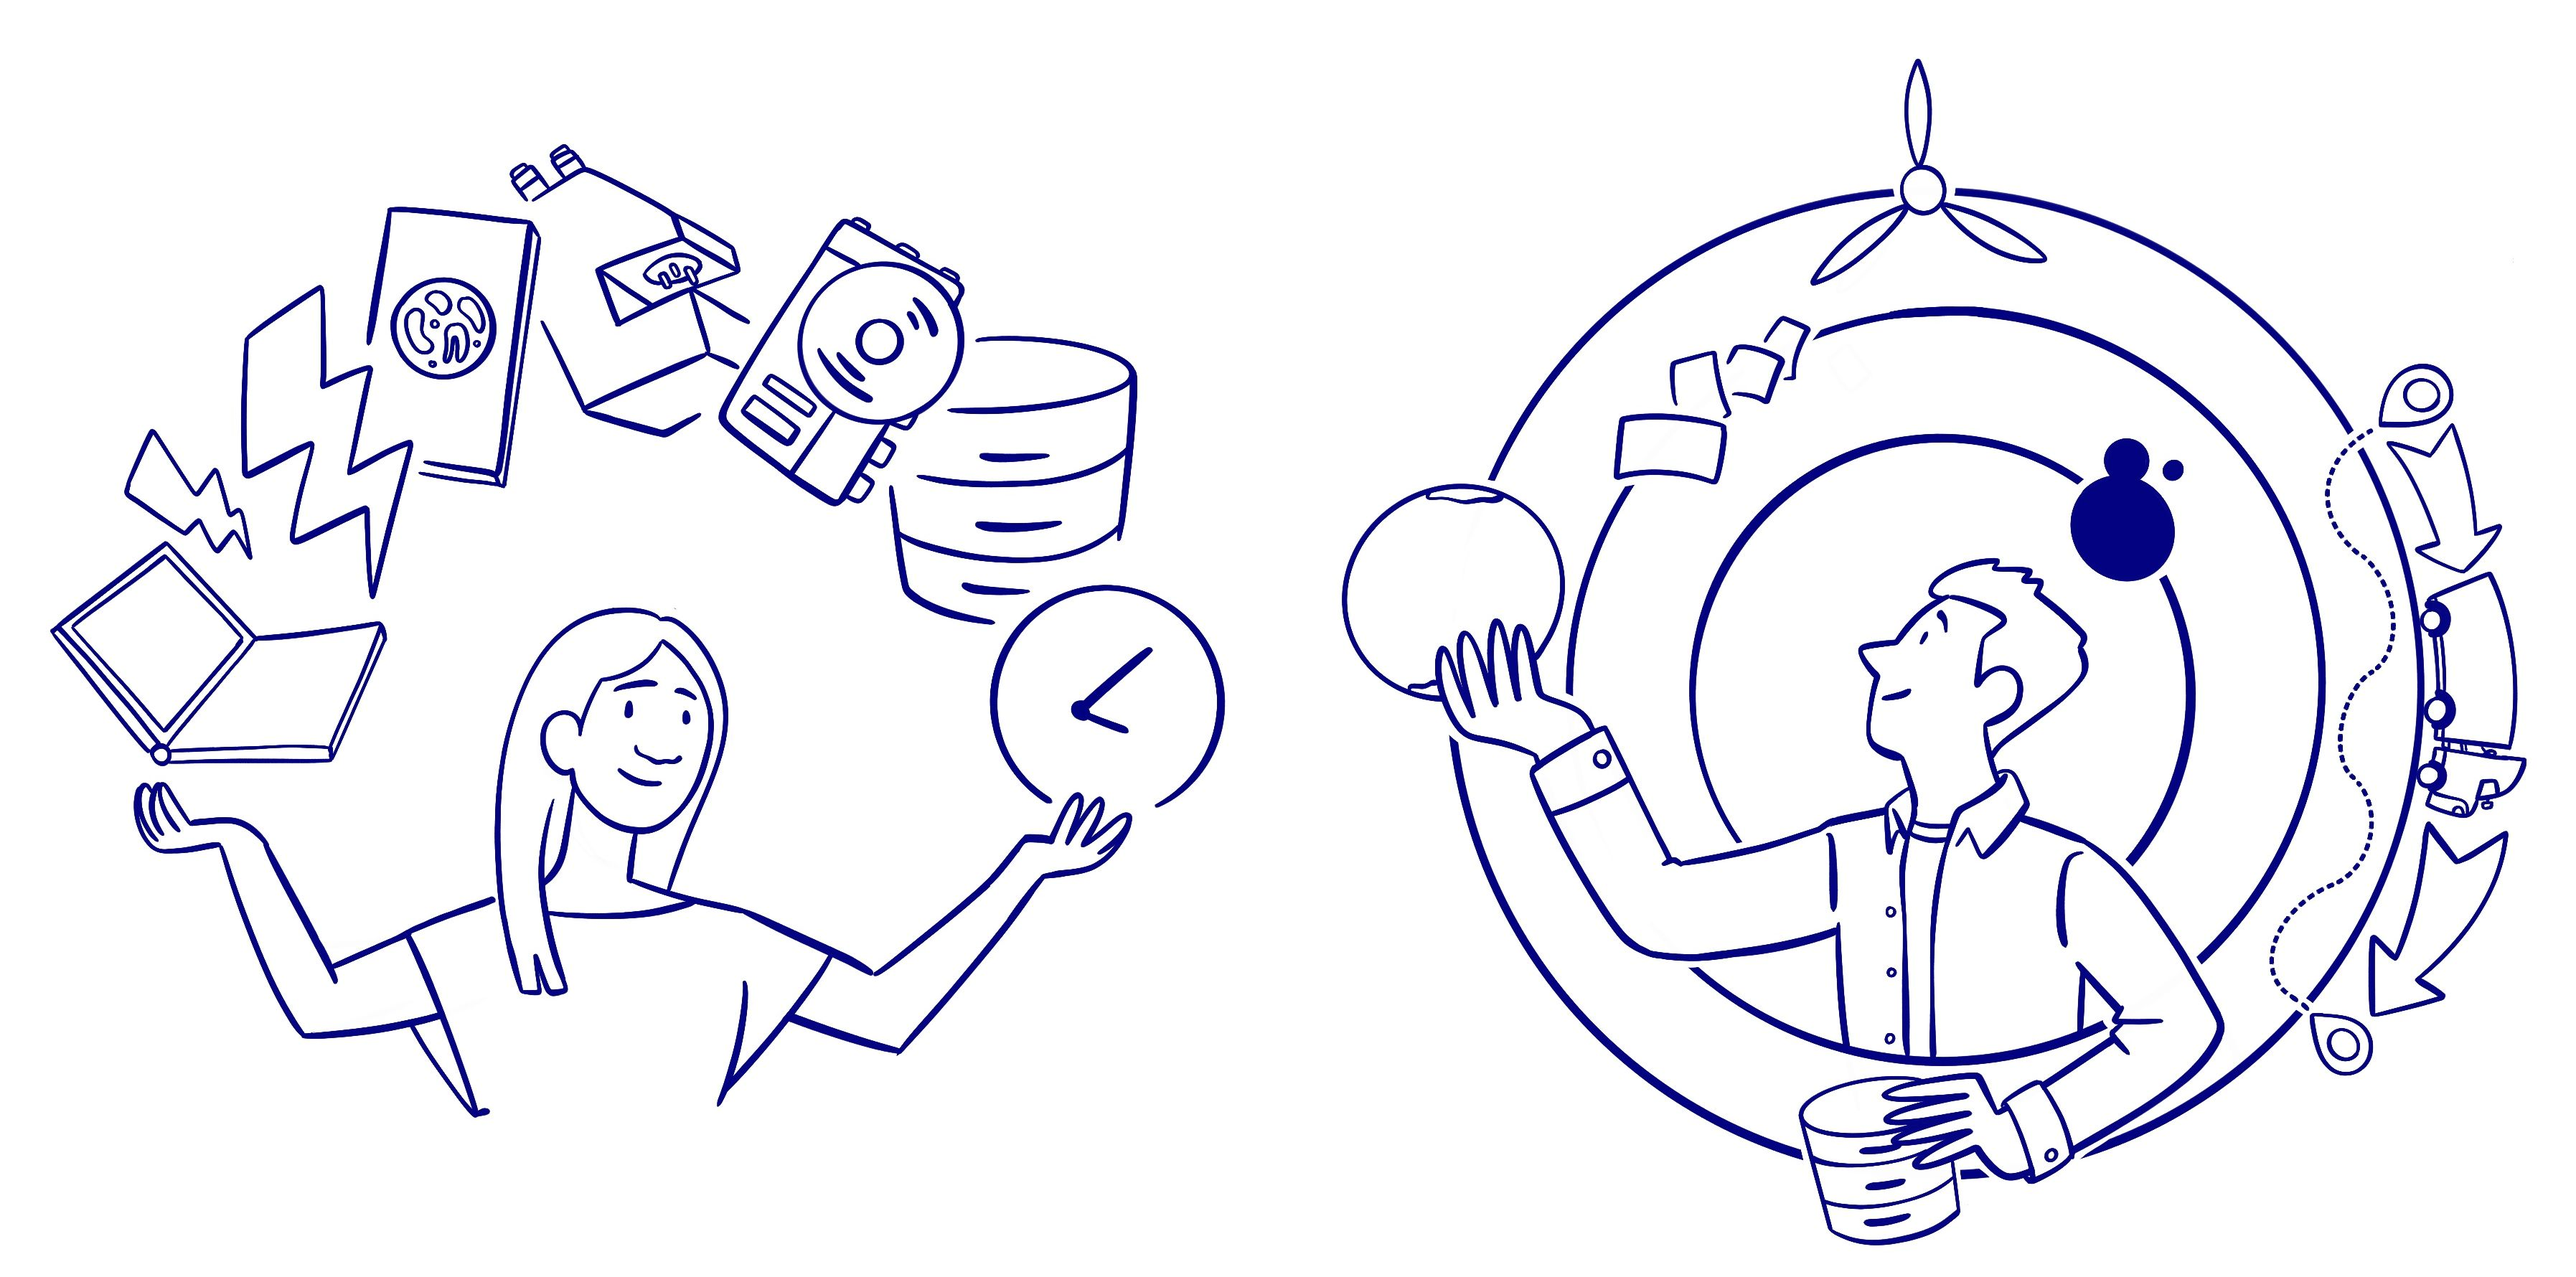
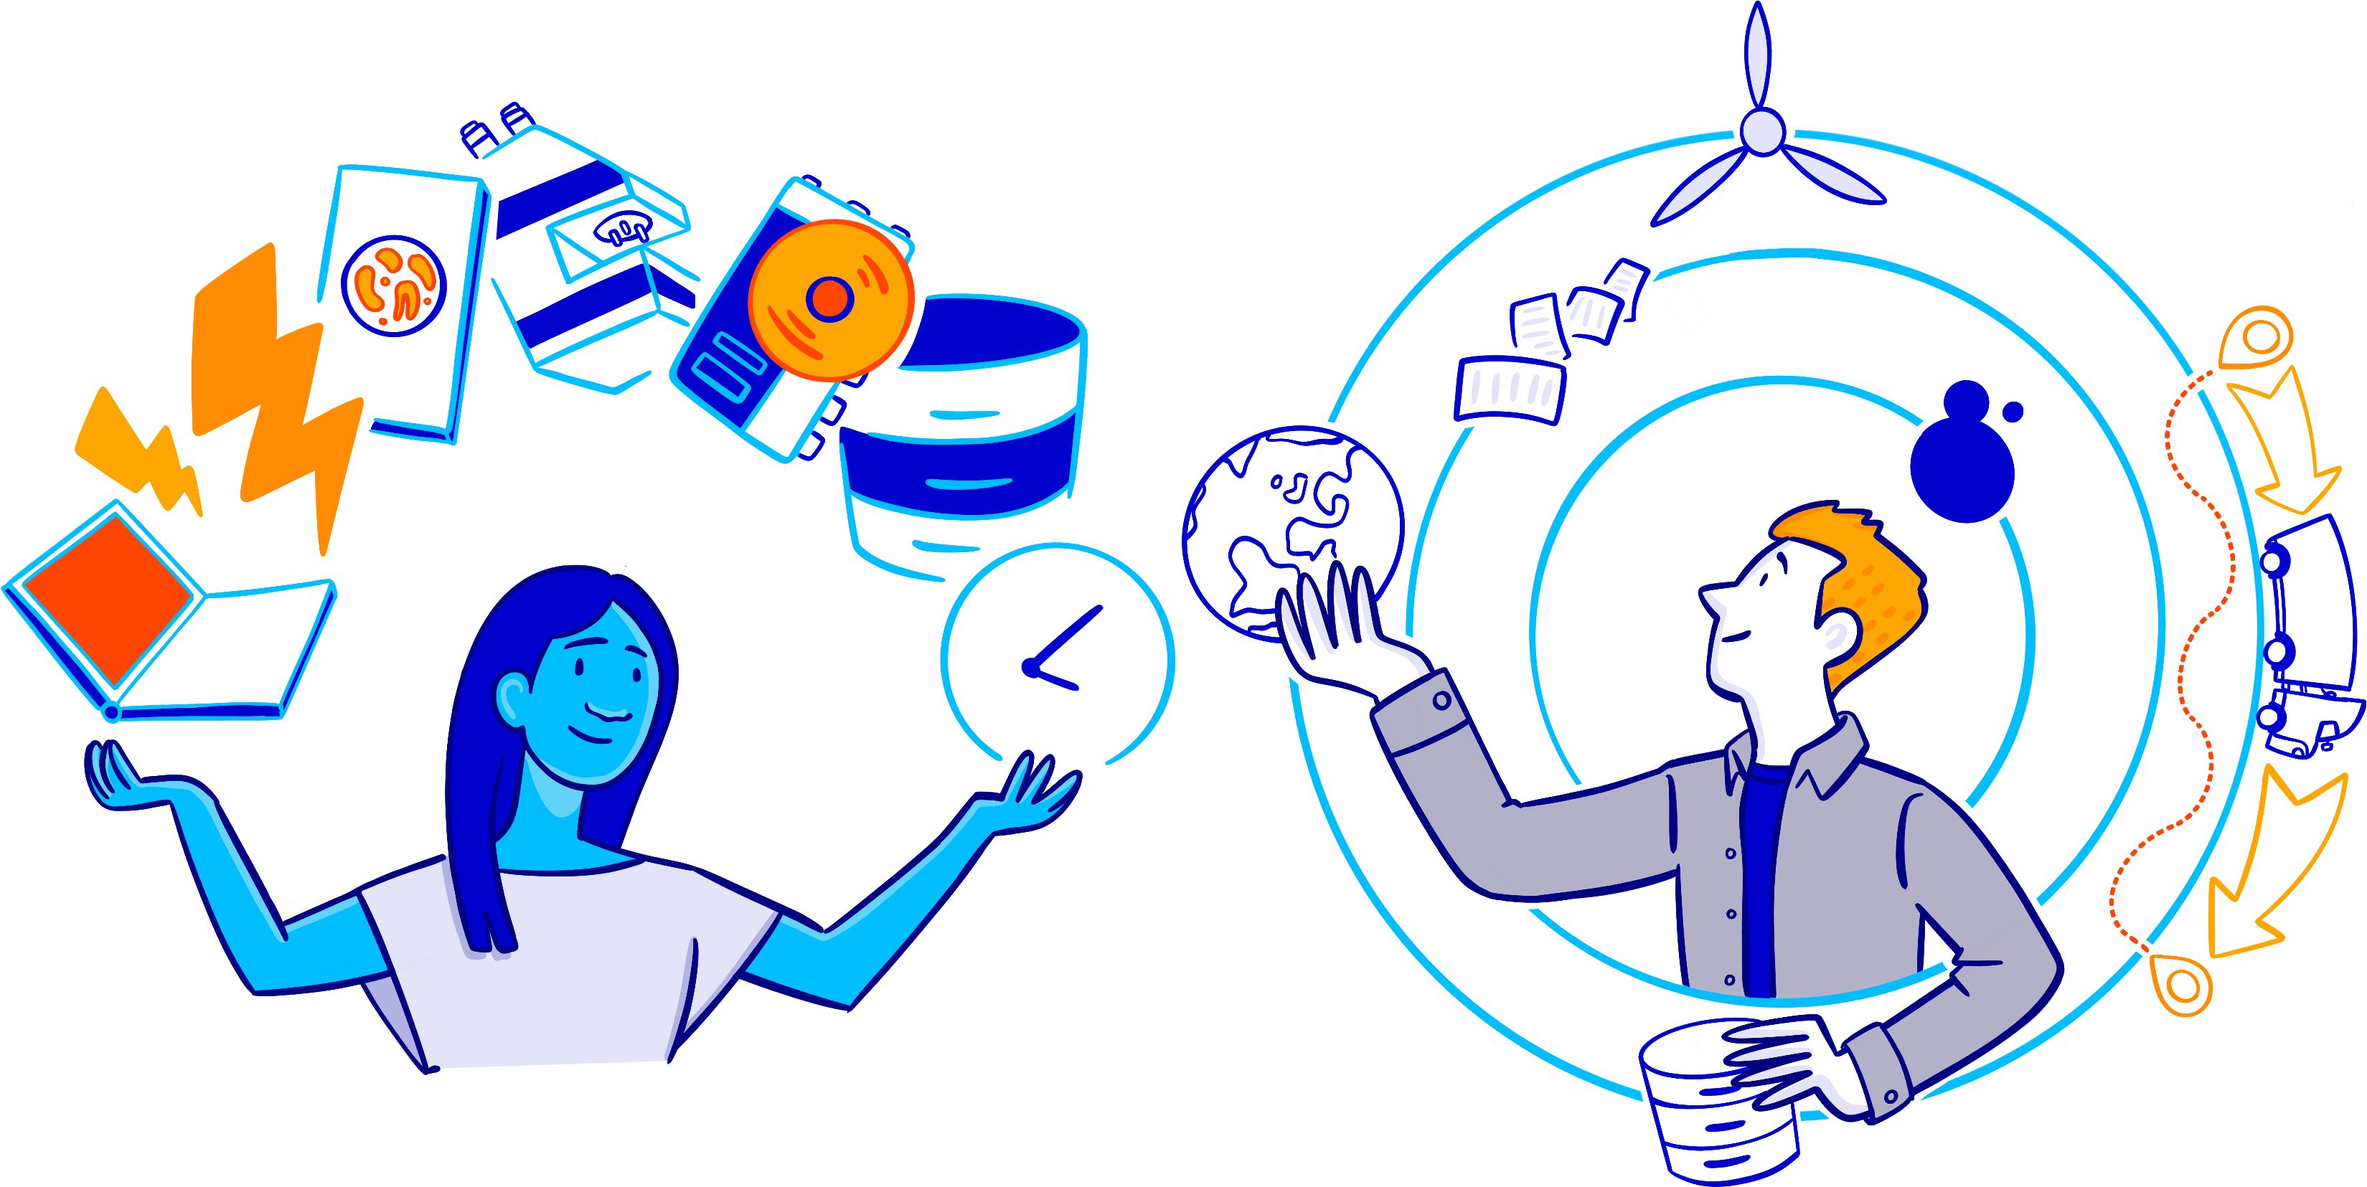
Image updates

Changed region(s): [[0.0, 0.0, 1.0, 1.0]]

diff --git a/episodes/01_why.md b/episodes/01_why.md
@@ -34,8 +34,11 @@ Environmental sustainability refers to the need for human activity to be balance
 the long term health of the planet and availability of natural resources. There are many
 issues that can impact environmental sustainability:
 
-<!-- markdownlint-disable-next-line line-length -->
-![Placeholder image - Challenges of environmental sustainability](https://i.pinimg.com/736x/6c/f9/62/6cf962d6976c08ae2ba94f412e8d1d4c.jpg){alt="Picture showing some challenges of environmental sustainability, including greenhouse gas emissions, potable water usage, waste and pollution, and loss of biodiversity, among others"}
+![Challenges of environmental
+sustainability](fig/ep1_environmental_sustainability.png){alt="Picture
+showing some challenges of environmental sustainability, including greenhouse gas
+emissions, potable water usage, waste and pollution, and loss of biodiversity, among
+others"}
 
 The most pressing sustainability challenge facing the world is the emission of
 greenhouse gases driving the climate emergency. For this reason we will primarily focus
@@ -65,6 +68,9 @@ zero](https://commonslibrary.parliament.uk/research-briefings/cbp-9888/) by 2050
 ::::::::::::::::::::::::: callout
 
 ### Carbon neutral vs net zero
+
+![Carbon Neutral vs Net Zero](fig/ep1_net_zero_vs_carbon_neutral.png){alt="Cartoon
+representing the differences between the terms carbon neutral and net zero."}
 
 The terms **carbon neutral** and **net zero** are often used interchangeably, but they
 have different meanings. They both refer to removing harmful emissions from the
@@ -152,8 +158,9 @@ activity**, but a myriad small activities, practices, tools and processes that, 
 individually do not represent a big challenge, their sheer amount results in the above
 estimates.
 
-<!-- markdownlint-disable-next-line line-length -->
-![Placeholder image - Mindful computing and what it means for different people (use Rae's interpretation of the following paragraph)](https://img.freepik.com/premium-photo/mindful-computing-holographic-brain-integration_153608-14859.jpg){alt="TBC"}
+![Mindful computing and what it means for different
+people](fig/ep1_mindful_computing.png){alt="A researcher holding out here arms with
+various representations of the research process and consumed resources spread above."}
 
 As researchers, we have a responsibility to consider the environmental impact of our
 work and take steps to reduce it. This begins with **mindful computing**, a term which

diff --git a/episodes/03_activities.md b/episodes/03_activities.md
@@ -38,7 +38,7 @@ some of the different components of digital infrastructure and their relation to
 emissions.
 
 ![What is the relationship between research activities and carbon
-emissions?](fig/ep3_banner.jpg){alt='Person thinking on different aspects of digital
+emissions?](fig/ep3_banner.png){alt='Person thinking on different aspects of digital
 infrastructure that produce carbon emissions, showing computers, storage devices, data
 centres and the research activity itself.'}
 
@@ -72,7 +72,7 @@ fit for purpose.
   extend its useful life instead of trashing it (or recycling it)?
 
 ![The full lifecycle of a laptop from manufacturing to
-reuse.](fig/ep3_laptop_lifecycle.jpg){alt="A depiction of the lifecycle of a laptop from
+reuse.](fig/ep3_laptop_lifecycle.png){alt="A depiction of the lifecycle of a laptop from
 its manufacture, transportation, usage, refurbishment and reusage."}
 
 :::::::::::::::::::::::::::::::::::::::::::::
@@ -218,9 +218,6 @@ reliability. As modern research practices move toward open data and long-term st
 the embodied and operational emissions of storage becomes a significant component of
 digital research's environmental impact.
 
-<!-- markdownlint-disable-next-line line-length -->
-![History of digital storage media. Image from the blog post ["Data storage through history"]](https://www.anycloud.dk/wp-content/uploads/2023/07/2-1.png){alt='Timeline with the history of digital storage media showing: punchcards (1881), magnetic tape (1950), removable hard drives (1963), floppy discs (1971), CD-ROM (1983), SD Cards (1999), USB drives (2000) and cloud (2013).'}
-
 There are a few different storage mediums in common use:
 
 - **Solid-State Disk Drives (SSD)**: They use flash memory with no moving parts to store
@@ -262,8 +259,6 @@ SSDs allow data to be accessed almost instantly and are typically 10–100× fas
 HDDs. LTO tapes offer the slowest access speeds, but they remain the preferred option
 for storing cold data due to their low cost, low embodied emissions and great energy
 efficiency.
-
-["Data storage through history"]: https://www.anycloud.dk/anycloud/data-management/data-storage-thoughout-history/
 
 ## Data Centres
 

diff --git a/episodes/02_carbon.md b/episodes/02_carbon.md
@@ -301,8 +301,10 @@ view of different emissions sources.
 
 [Greenhouse Gas Protocol]: https://ghgprotocol.org/
 
-<!-- markdownlint-disable-next-line line-length -->
-![PLACEHOLDER](fig/ghg_emissions_placeholder.webp){alt="Placeholder - GHG Emissions Types."}
+![ The different scopes of GHG emissions CC BY 4.0
+https://commons.wikimedia.org/w/index.php?curid=140748311
+](fig/ep1_carbon_accounting_scopes.png){alt="Depiction of carbon accounting using the
+WRI-Greenhouse Gas Protocol."}
 
 ::::::::::::::::::::::::::::::::::::: challenge
 
